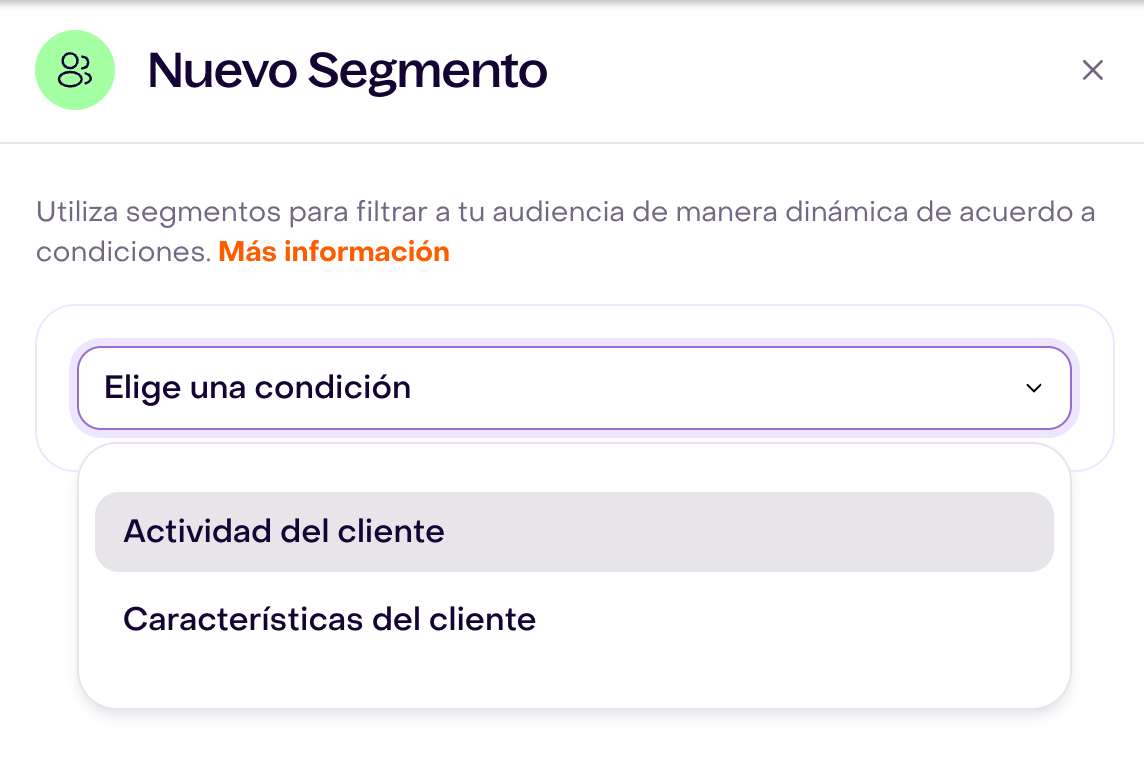
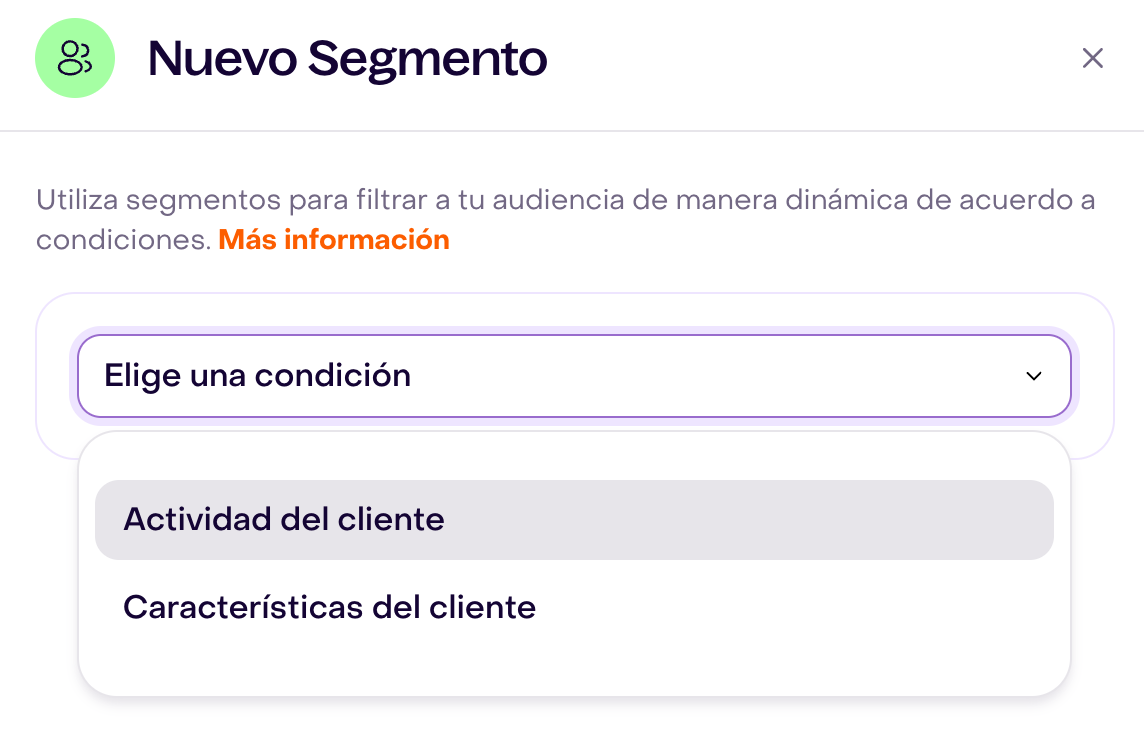
Remove stray shadow from Spanish segment chooser capture

diff --git a/docs/editorial-work/segments-chooser-clean-crop.md b/docs/editorial-work/segments-chooser-clean-crop.md
@@ -1,0 +1,15 @@
+# Spanish Segments chooser crop correction
+
+## Starting state and plan
+
+- The existing Spanish and English Segments articles are already reviewed and published. Preserve their titles, slugs, links, body text, and publication state. The English chooser and the other Segments figures are unaffected.
[1 lines of base64/hex data omitted]
+- Re-extract only the useful rectangle from that original: 1144 × 748 pixels at x=0, y=110. This removes 12 top rows containing the unrelated overlay shadow while retaining the full editor heading, chooser, and both choices. Update the HTML intrinsic height and capture record. The maximum 550 CSS-pixel display width retains 2.08× source density.
+- Verify the resulting pixels and Display P3 profile, build the complete site, and review both language pages at desktop and mobile widths. Publish through the normal PR and Netlify process, then compare the public image and pages.
+
+## Verification and publication
+
[1 lines of base64/hex data omitted]
+- `PATH="$HOME/.rbenv/shims:$PATH" BUNDLE_PATH=vendor/bundle yarn build` passed, including the security-header check. The root and Spanish built PNG copies are byte-identical to the corrected source asset; `docs/` and `AGENTS.md` stay outside `_site`.
+- In the local browser, the complete Spanish article shows all three static figures. The corrected chooser has no top shadow at 1280px desktop or 390px mobile, while its heading and both choices remain visible. The English article still shows three static figures at both widths. The mobile pages have no horizontal overflow; every figure has one image and no link or button. The Spanish chooser is complete at a 316 CSS-pixel mobile width.
+- Pull request, merge, and public deployment are pending.

diff --git a/_i18n/es/audience/segments.md b/_i18n/es/audience/segments.md
@@ -36,7 +36,7 @@ En el editor, **Elige una condición** ofrece estos dos tipos de criterio:
 <figure class="ht-editorial-visual ht-editorial-visual--screenshot" aria-label="Tipos de condición de un segmento nuevo">
   <div class="ht-editorial-visual__stage">
     <div class="ht-editorial-visual__image-frame" style="max-width: 550px; margin: 0 auto;">
-      <img class="ht-editorial-visual__image" src="/images/audience/segments/condition-chooser-es.png" width="1144" height="760" loading="lazy" decoding="async" alt="Editor Nuevo Segmento con Elige una condición abierto y las opciones Actividad del cliente y Características del cliente." />
+      <img class="ht-editorial-visual__image" src="/images/audience/segments/condition-chooser-es.png" width="1144" height="748" loading="lazy" decoding="async" alt="Editor Nuevo Segmento con Elige una condición abierto y las opciones Actividad del cliente y Características del cliente." />
     </div>
   </div>
   <figcaption class="ht-editorial-visual__caption">Captura de la interfaz real en español con un segmento de demostración sin guardar.</figcaption>
